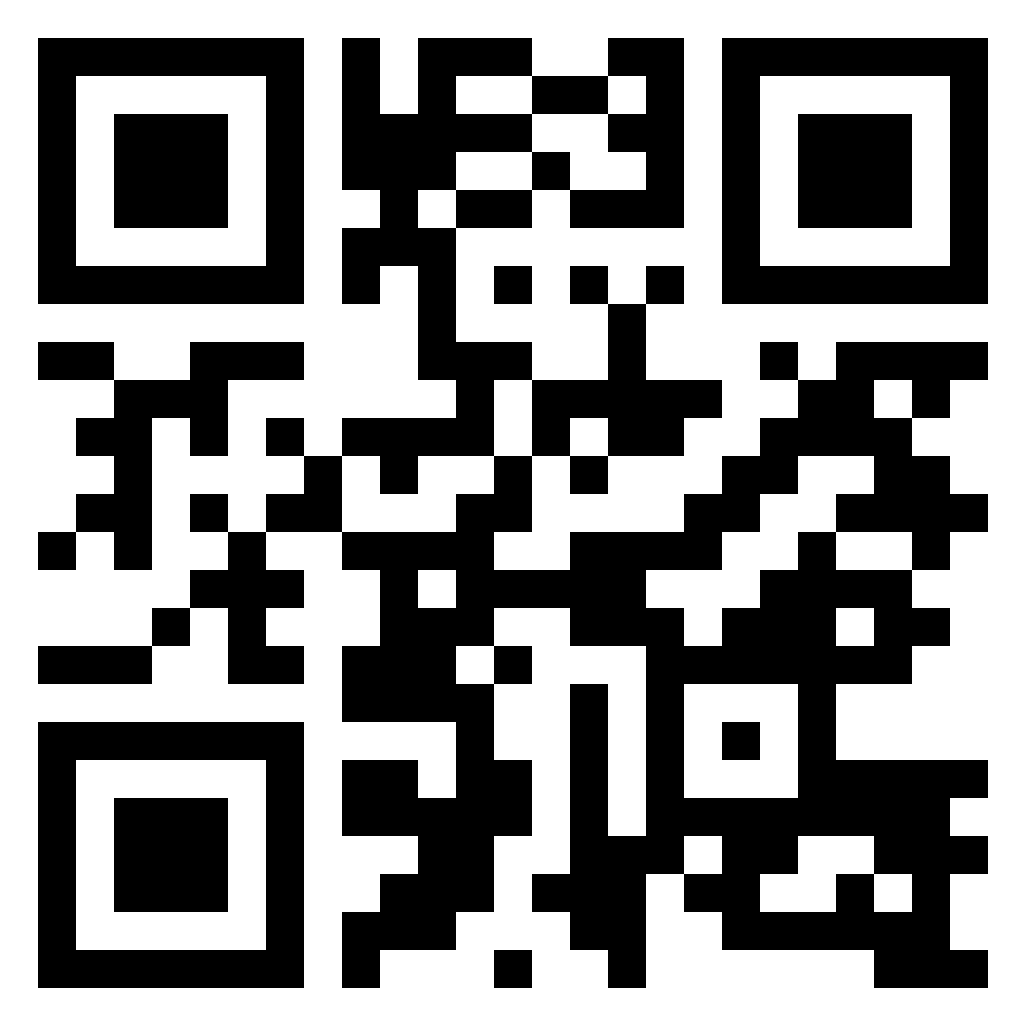
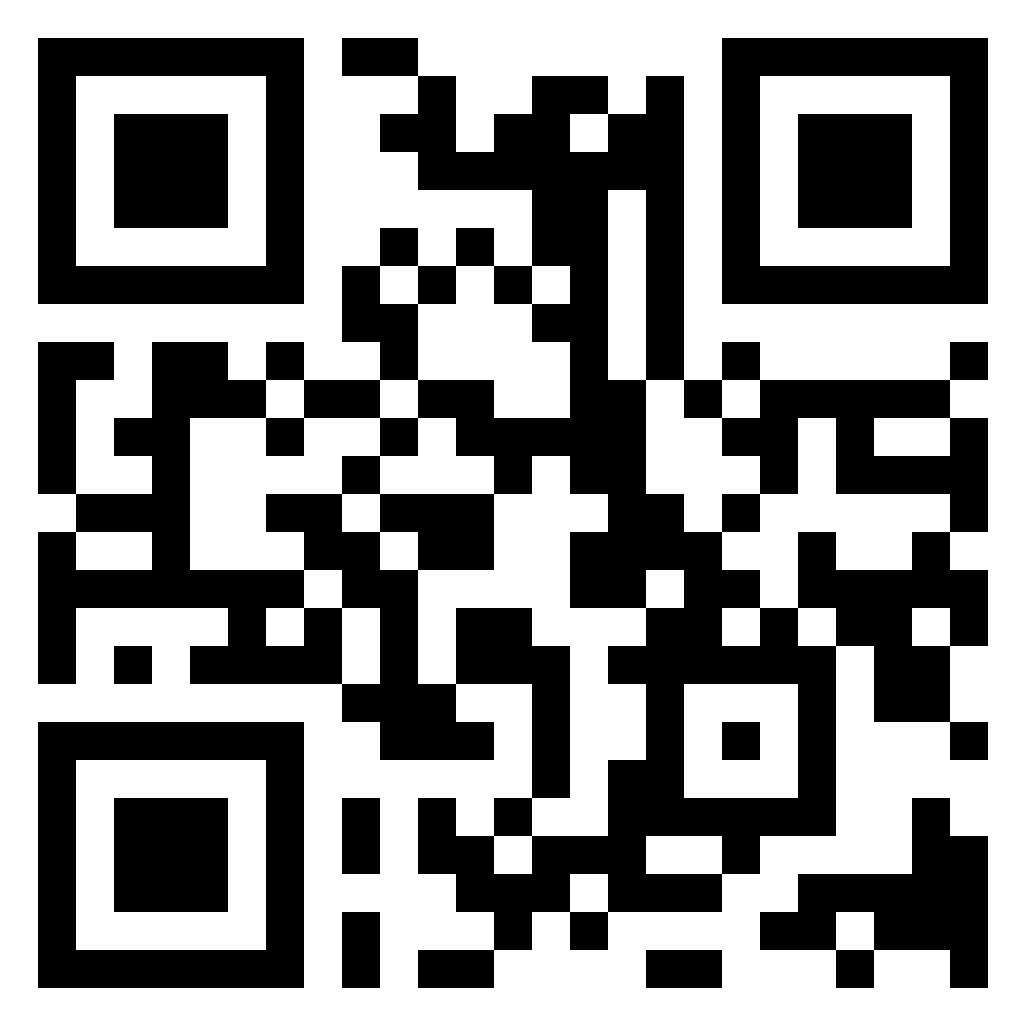
채용 공고 링크 수정

Changed region(s): [[0.0312, 0.0312, 0.9669, 0.9669], [0.5926, 0.0312, 0.6862, 0.0936]]

diff --git a/index.html b/index.html
@@ -895,7 +895,7 @@
 							<img src="images/recruit/logo-kaflix.png" alt="">
 							<div class="session-info">
 								<strong class="session-title">캐플릭스</strong>
-								<a href="https://www.kaflix.com/blank-4" target="_blank">채용 공고 바로가기</a>
+								<a href="https://www.kaflix.com/recruit" target="_blank">채용 공고 바로가기</a>
 							</div>
 						</td>
 						<td class="qr">
